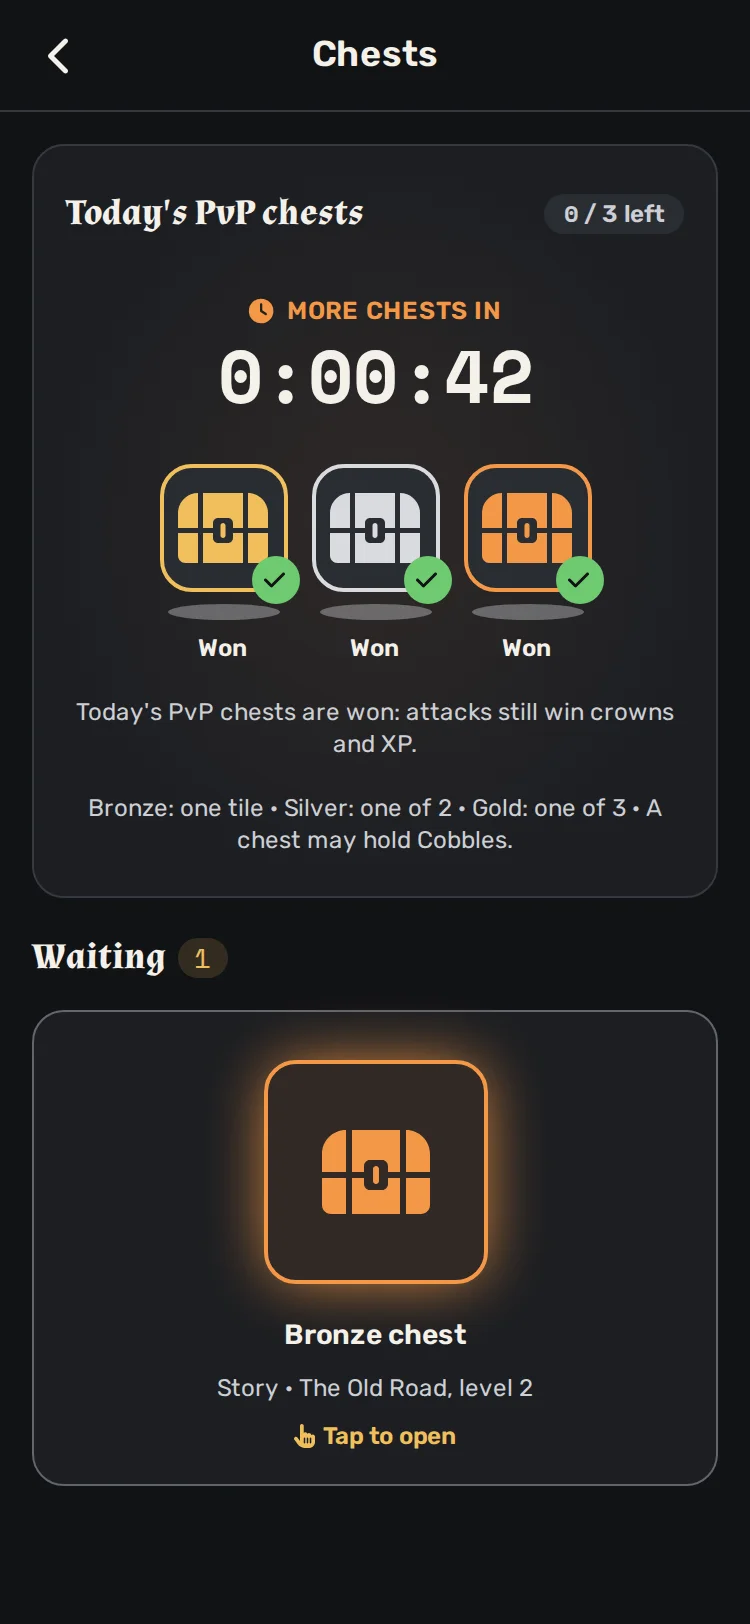
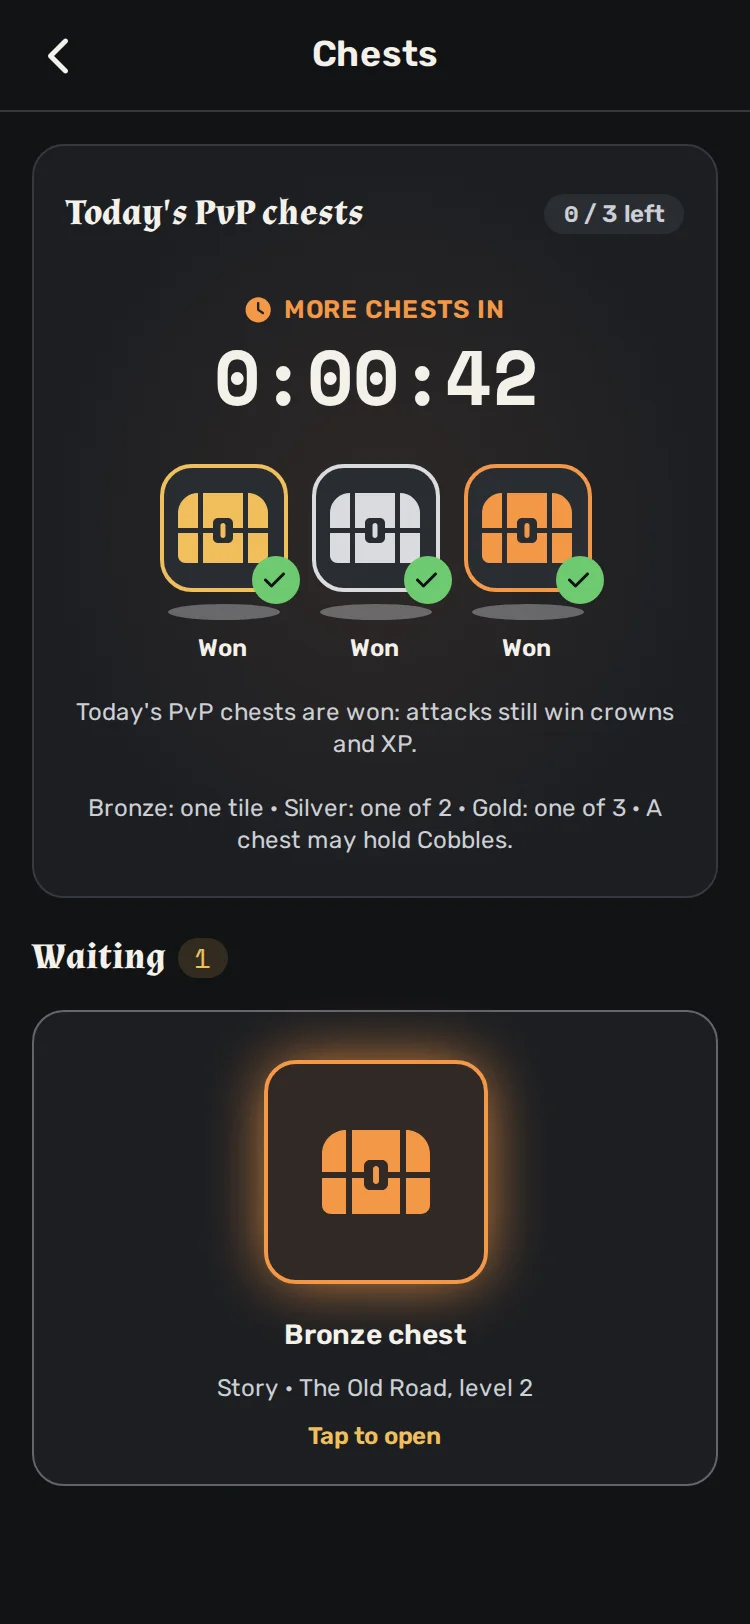
V2-CHESTS-PAGE: keep the first load lean, state the budget (#759)
The large countdown is its own element (HeroCountdown), so the home's
first load, which carries Countdown, does not take it; the home's badge
reads the day the Chests page was seen with a plain storage read
(chests-seen.ts, as welcomed.ts) and computes the UTC day itself instead
of importing game-core's index. The waiting cards drop the hand icon.

Budget raised by what remains, measured against 37c833cc: first-load JS
gzip 197,331 -> 197,684 (+353, the badge's code), CSS raw 101,321 ->
105,700 and gzip 18,064 -> 18,466 (the slots' and chests' classes), Font
Awesome raw 104,555 -> 105,069 (the treasure-chest icon, the chest art).
The Chests page's lazy chunk: 10,714 -> 16,942 raw, 3,991 -> 6,007 gzip.
Captures refreshed and the chest-opening GIF at 375.

Changed region(s): [[0.276, 0.1847, 0.736, 0.2463], [0.3987, 0.8621, 0.6133, 0.8929]]

diff --git a/packages/app/src/components/elements/countdown.tsx b/packages/app/src/components/elements/countdown.tsx
@@ -23,13 +23,11 @@ export interface CountdownProps {
   label?: string;
   /** Leaves the visible label out (the icon and the time stay); the timer's accessible name still carries it. */
   hideLabel?: boolean;
-  /** `lg`: the label over a large figure, as a page's hero (the Chests page's reset, issue 759). Default `sm`, one line. */
-  size?: "sm" | "lg";
   className?: string;
 }
 
 /** The time left before a game expires (`expires_at`); amber under an hour, red once expired. */
-export function Countdown({ expiresAt, now, label = "Expires in", hideLabel, size = "sm", className }: CountdownProps) {
+export function Countdown({ expiresAt, now, label = "Expires in", hideLabel, className }: CountdownProps) {
   const left = expiresAt - now;
   const state = left <= 0 ? "expired" : left < COUNTDOWN_WARN_S ? "warning" : "ok";
   return (
@@ -38,36 +36,21 @@ export function Countdown({ expiresAt, now, label = "Expires in", hideLabel, siz
       role="timer"
       aria-label={state === "expired" ? "Expired" : `${label} ${formatRemaining(left)}`}
       data-state={state}
-      data-size={size}
       className={cn(
-        size === "lg" ? "inline-flex flex-col items-center gap-1 whitespace-nowrap" : "inline-flex items-center gap-1.5 text-xs whitespace-nowrap",
+        "inline-flex items-center gap-1.5 text-xs whitespace-nowrap",
         state === "ok" && "text-muted-foreground",
         state === "warning" && "text-warning",
         state === "expired" && "text-destructive-text",
         className,
       )}
     >
-      {size === "lg" ? (
-        <>
-          <span className="flex items-center gap-1.5 text-xs font-semibold tracking-wide uppercase">
-            <Icon name="clock" size="xs" />
-            {state === "expired" ? "Expired" : label}
-          </span>
-          <time dateTime={`PT${Math.max(0, left)}S`} className="numeric text-4xl font-bold text-foreground desktop:text-5xl">
-            {formatRemaining(left)}
-          </time>
-        </>
+      <Icon name="clock" size="sm" />
+      {state === "expired" ? (
+        <span className="font-semibold">Expired</span>
       ) : (
         <>
-          <Icon name="clock" size="sm" />
-          {state === "expired" ? (
-            <span className="font-semibold">Expired</span>
-          ) : (
-            <>
-              {!hideLabel && <span className="hidden tablet:inline">{label}</span>}
-              <time dateTime={`PT${Math.max(0, left)}S`} className="numeric font-semibold">{formatRemaining(left)}</time>
-            </>
-          )}
+          {!hideLabel && <span className="hidden tablet:inline">{label}</span>}
+          <time dateTime={`PT${Math.max(0, left)}S`} className="numeric font-semibold">{formatRemaining(left)}</time>
         </>
       )}
     </span>

diff --git a/packages/app/src/routes/pages/home.tsx b/packages/app/src/routes/pages/home.tsx
@@ -3,13 +3,11 @@ import { UNSAFE_DataRouterContext, useBlocker, useLocation, useNavigate, useSear
 import { useQuery, useQueryClient } from "@tanstack/react-query";
 import { toast } from "sonner";
 import type { BoardTile } from "@paved/chain";
-import { dayOf } from "@paved/game-core";
 import { shortAddress } from "../../components/elements/short-address";
 import type { LayoutSaved } from "../../components/containers/layout-editor";
 import type { VillageLayout } from "../../components/containers/layout-rules";
 import { HomeVillageScene } from "../../components/scenes/home-village-scene";
 import { useBoardSettings } from "../../data/board-settings";
-import { useDeviceStore } from "../../data/device-store";
 import { useActiveGame, useSpawnPaused } from "../../data/chain";
 import { cobbleKeys } from "../../data/cobbles";
 import { useChests, useFreeVillageHeld, useFreeVillageWrites } from "../../data/free-village-base";
@@ -18,7 +16,7 @@ import { playedPvp, usePvpLeague } from "../../data/pvp-league";
 import { useMissionsReady } from "../../data/quests";
 import { useDataSources } from "../../data/sources";
 import { useAccount } from "../../wallet/wallet";
-import { chestsBadge, chestsSeenDay } from "../chests-seen";
+import { chestsBadge, chestsSeenDay, utcDay } from "../chests-seen";
 import { useConnectError } from "../connect-error";
 import { errorDetail } from "../error-detail";
 import { useNow } from "../now";
@@ -58,7 +56,8 @@ export default function Page() {
   const me = sources.signer?.address ?? wallet.address ?? null;
   const read = useFreeVillageHeld(me);
   const chests = useChests(me);
-  const [seenDay] = useDeviceStore(chestsSeenDay);
+  // Read at each render: the home is drawn again on the way back from the Chests page, which marks the day seen.
+  const seenDay = chestsSeenDay();
   const writes = useFreeVillageWrites(me);
   const active = useActiveGame(wallet.address);
   const paused = useSpawnPaused();
@@ -151,7 +150,7 @@ export default function Page() {
         refusalDetail={writes.error ? errorDetail(writes.error) : undefined}
         chests={
           chests.data
-            ? chestsBadge(chests.data.pending.length + (chests.data.open ? 1 : 0), chests.data.pvpCap - chests.data.pvpToday, dayOf(now), seenDay)
+            ? chestsBadge(chests.data.pending.length + (chests.data.open ? 1 : 0), chests.data.pvpCap - chests.data.pvpToday, utcDay(now), seenDay)
             : 0
         }
         missions={missions}

diff --git a/packages/app/src/routes/chests-seen.ts b/packages/app/src/routes/chests-seen.ts
@@ -1,17 +1,40 @@
-import { createDeviceStore } from "../data/device-store";
+const KEY = "chests-seen-day";
+
+/** Kept beside `localStorage`, as `welcomed` is: with storage off the page seen holds for the visit. */
+let memory = -1;
+
+/** The UTC day of `seconds`, as game-core's `dayOf`: written here so the home's first load does not take game-core's index. */
+export const utcDay = (seconds: number): number => Math.floor(seconds / 86_400);
 
 /**
  * The last UTC day the Chests page was seen on this device (#759, the home's cue at the reset): until the page is seen on a new
- * day, the home's Chests badge also counts the day's free PvP slots. Storage off keeps it for the visit (the store's twin).
+ * day, the home's Chests badge also counts the day's free PvP slots. Storage that throws counts as the visit's memory alone.
  */
-export const chestsSeenDay = createDeviceStore<number>(
-  "chests-seen-day",
-  -1,
-  (raw) => (/^\d+$/.test(raw) ? Number(raw) : null),
-  String,
-);
+export function chestsSeenDay(): number {
+  try {
+    const raw = localStorage.getItem(KEY);
+    return Math.max(memory, raw && /^\d+$/.test(raw) ? Number(raw) : -1);
+  } catch {
+    return memory;
+  }
+}
+
+/** Marks the page seen today. A refused write is not an error: the badge then counts the free slots again on the next load. */
+export function markChestsSeen(day: number): void {
+  memory = Math.max(memory, day);
+  try {
+    localStorage.setItem(KEY, String(day));
+  } catch {
+    // Storage off: the in-memory day above is all there is.
+  }
+}
 
 /** The home's Chests badge: the chests waiting, plus the day's free slots while the page has not been seen today. */
 export function chestsBadge(waiting: number, freeSlots: number, day: number, seenDay: number): number {
   return waiting + (seenDay < day ? Math.max(0, freeSlots) : 0);
+}
+
+/** For the tests: forget the in-memory day. */
+export function resetChestsSeenForTests(): void {
+  memory = -1;
 }

diff --git a/packages/app/src/components/elements/hero-countdown.tsx b/packages/app/src/components/elements/hero-countdown.tsx
@@ -1,0 +1,43 @@
+import { cn } from "../../lib/utils";
+import { Icon } from "../ui/icon";
+import { COUNTDOWN_WARN_S, formatRemaining } from "./countdown";
+
+export interface HeroCountdownProps {
+  /** Seconds since the epoch. */
+  expiresAt: number;
+  /** Seconds since the epoch: the scene's clock, a prop so a story or a test stays still. */
+  now: number;
+  label: string;
+  className?: string;
+}
+
+/**
+ * `Countdown` as a page's hero (the Chests page's reset, issue 759): the label over a large figure, amber under an hour. Apart
+ * from `Countdown`, which the home's first load carries, so that only the pages that show it take its markup.
+ */
+export function HeroCountdown({ expiresAt, now, label, className }: HeroCountdownProps) {
+  const left = expiresAt - now;
+  const state = left <= 0 ? "expired" : left < COUNTDOWN_WARN_S ? "warning" : "ok";
+  return (
+    <span
+      role="timer"
+      aria-label={state === "expired" ? "Expired" : `${label} ${formatRemaining(left)}`}
+      data-state={state}
+      className={cn(
+        "inline-flex flex-col items-center gap-1 whitespace-nowrap",
+        state === "ok" && "text-muted-foreground",
+        state === "warning" && "text-warning",
+        state === "expired" && "text-destructive-text",
+        className,
+      )}
+    >
+      <span className="flex items-center gap-1.5 text-xs font-semibold tracking-wide uppercase">
+        <Icon name="clock" size="xs" />
+        {state === "expired" ? "Expired" : label}
+      </span>
+      <time dateTime={`PT${Math.max(0, left)}S`} className="numeric text-4xl font-bold text-foreground desktop:text-5xl">
+        {formatRemaining(left)}
+      </time>
+    </span>
+  );
+}

diff --git a/packages/app/src/components/containers/chest-slots.tsx b/packages/app/src/components/containers/chest-slots.tsx
@@ -3,7 +3,7 @@ import { useReducedMotionConfig } from "motion/react";
 import * as m from "motion/react-m";
 import { cn } from "../../lib/utils";
 import { CHEST_NAME, ChestBadge, type ChestRank } from "../elements/chest-badge";
-import { Countdown } from "../elements/countdown";
+import { HeroCountdown } from "../elements/hero-countdown";
 import { Button } from "../ui/button";
 import { Icon } from "../ui/icon";
 import { PVP_CHESTS_A_DAY } from "./layout-rules";
@@ -59,7 +59,7 @@ export function ChestSlots({ won, ranks, resetsAt, now, ready = false, look = "p
       animate={lastMinute && !reduced ? { scale: [1, 1.08, 1] } : { scale: 1 }}
       transition={lastMinute && !reduced ? { duration: 1, repeat: Infinity, ease: "easeInOut" } : { duration: 0.2 }}
     >
-      <Countdown size="lg" expiresAt={resetsAt} now={now} label={full ? "More chests in" : "Slots reset in"} className={cn(lastMinute && "text-warning")} />
+      <HeroCountdown expiresAt={resetsAt} now={now} label={full ? "More chests in" : "Slots reset in"} className={cn(lastMinute && "text-warning")} />
     </m.div>
   );
 

diff --git a/packages/app/src/routes/pages/village-chests.tsx b/packages/app/src/routes/pages/village-chests.tsx
@@ -10,7 +10,7 @@ import { useAccount } from "../../wallet/wallet";
 import { errorDetail } from "../error-detail";
 import { useNow } from "../now";
 import { useAppNavigate, useUpTo } from "../ref";
-import { chestsSeenDay } from "../chests-seen";
+import { markChestsSeen } from "../chests-seen";
 import { READY_S } from "../../components/containers/chest-slots";
 import { countsByPlan, refusalText, useVillageArt } from "../village-v2";
 
@@ -43,7 +43,7 @@ export default function Page() {
   // The moment the new day was reached on the page: the slots say "Ready" until `READY_S` after it.
   const [resetAt, setResetAt] = useState<number | null>(null);
   useEffect(() => {
-    chestsSeenDay.set(day);
+    markChestsSeen(day);
     if (shownDay.current === day) return;
     shownDay.current = day;
     setResetAt(day * DAY_S);

diff --git a/packages/app/src/components/elements/hero-countdown.stories.tsx b/packages/app/src/components/elements/hero-countdown.stories.tsx
@@ -1,0 +1,17 @@
+import type { Meta, StoryObj } from "@storybook/react-vite";
+import { MOCK_NOW } from "../../mocks/clock";
+import { HeroCountdown } from "./hero-countdown";
+
+/** The countdown as a page's hero (the Chests page's reset, #759): the label over a large figure. */
+const meta = {
+  title: "Elements/HeroCountdown",
+  component: HeroCountdown,
+  parameters: { layout: "padded" },
+  args: { now: MOCK_NOW, label: "Slots reset in", expiresAt: MOCK_NOW + 7 * 3600 + 12 * 60 + 5 },
+} satisfies Meta<typeof HeroCountdown>;
+export default meta;
+type Story = StoryObj<typeof meta>;
+
+export const Running: Story = {};
+/** Under an hour left: amber. */
+export const Warning: Story = { args: { label: "More chests in", expiresAt: MOCK_NOW + 42 } };

diff --git a/packages/app/__tests__/village-v2-route.test.tsx b/packages/app/__tests__/village-v2-route.test.tsx
@@ -8,6 +8,7 @@ import type { GameSigner } from "../src/data";
 import { MOCK_KEY } from "../src/data/mock/ledger";
 import { queryClient } from "../src/lib/query-client";
 import { READY_S } from "../src/components/containers/chest-slots";
+import { resetChestsSeenForTests } from "../src/routes/chests-seen";
 import { createTestRouter } from "../src/routes/router";
 import { markWelcomed, resetWelcomedForTests } from "../src/routes/welcomed";
 import { mockImplementation } from "./mock-fakes";
@@ -46,6 +47,7 @@ beforeAll(async () => {
 beforeEach(() => {
   queryClient.clear();
   localStorage.clear();
+  resetChestsSeenForTests();
   resetWelcomedForTests();
   markWelcomed();
 });

diff --git a/packages/app/src/components/elements/countdown.stories.tsx b/packages/app/src/components/elements/countdown.stories.tsx
@@ -15,5 +15,3 @@ export const Expired: Story = { args: { expiresAt: MOCK_NOW - 60 } };
 export const DayEnds: Story = { args: { label: "Ends in", expiresAt: MOCK_NOW + 9 * 3600 } };
 /** WRAP360: the widest figure (999 hours) and a long label keep one line. */
 export const Stress: Story = { args: { label: "The day's Challenge closes in", expiresAt: MOCK_NOW + 999 * 3600 + 59 * 60 } };
-/** `lg`: the label over a large figure, a page's hero (the Chests page's reset, #759). */
-export const Large: Story = { args: { size: "lg", label: "Slots reset in", expiresAt: MOCK_NOW + 7 * 3600 + 12 * 60 + 5 } };

diff --git a/packages/app/src/components/scenes/village-chests-scene.tsx b/packages/app/src/components/scenes/village-chests-scene.tsx
@@ -215,9 +215,7 @@ export function VillageChestsScene({
                               ) : disabled ? (
                                 <span className="font-normal text-muted-foreground">Waits its turn</span>
                               ) : (
-                                <>
-                                  <Icon name="hand-pointer" size="xs" /> Tap to open
-                                </>
+                                "Tap to open"
                               )}
                             </span>
                           </Button>
